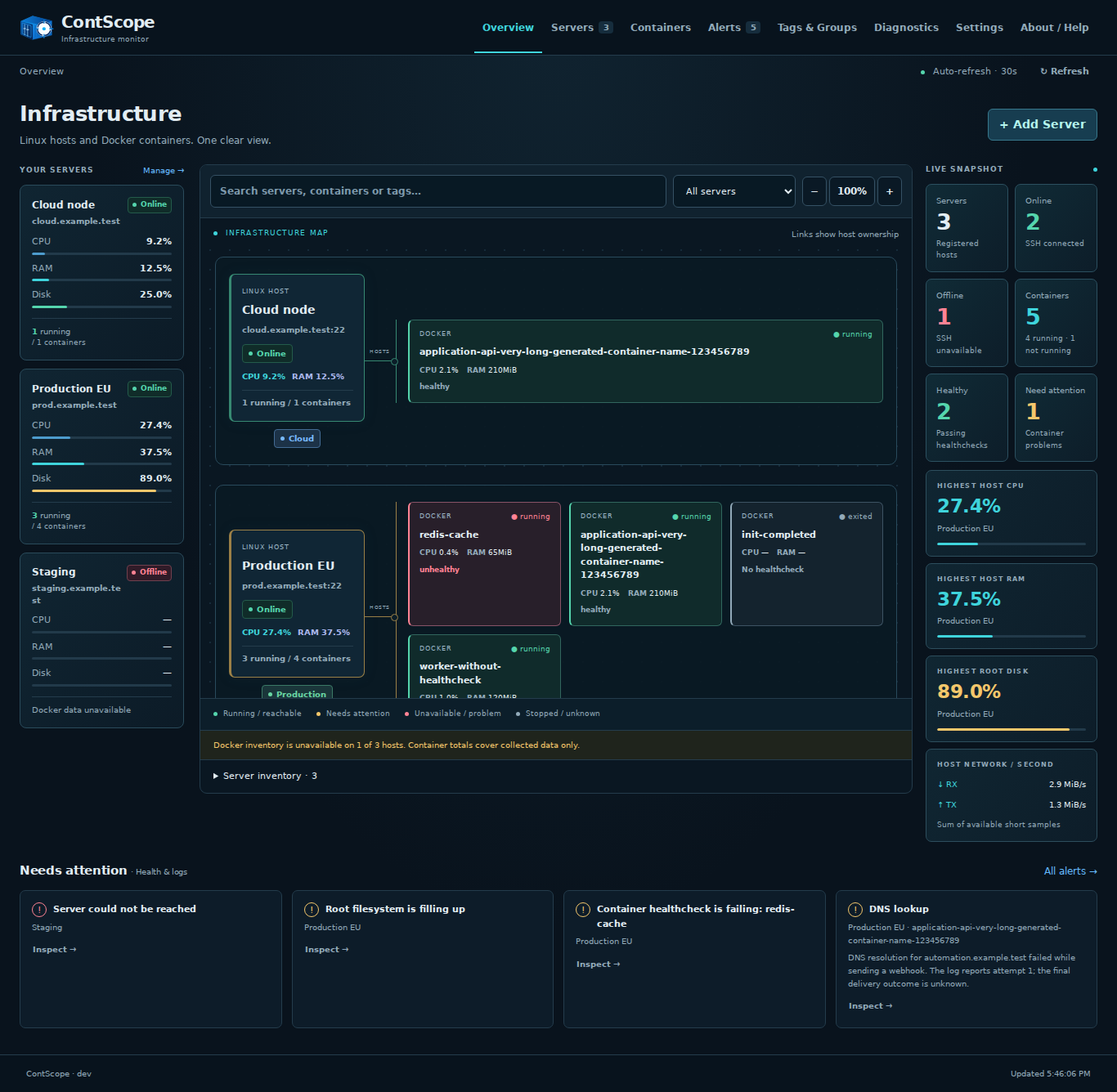
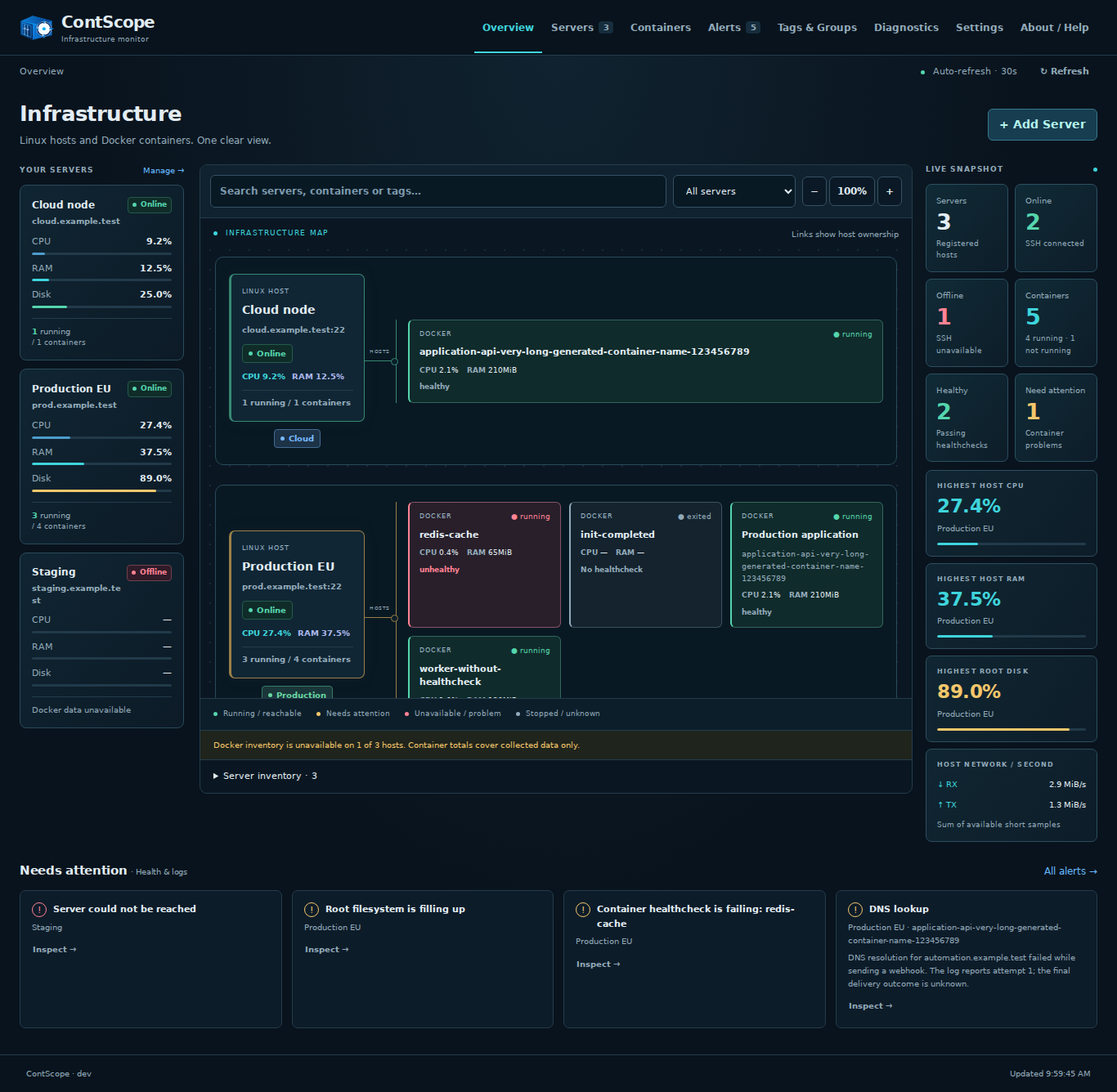
fix: show container descriptions and accept eight-character passwords
Display saved descriptions above the original Docker name in map cards and include descriptions in search. Align the browser form and local/environment password minimum at eight characters.

Validate password rotation through the real browser form, rejection of the old password, and authentication with the new eight-character password after restarting the process. Retain responsive map and CRUD checks.

diff --git a/web/app.js b/web/app.js
@@ -33,6 +33,7 @@ function containerProblem(c){return containerHealth(c)==='unhealthy'||['restarti
 function containerState(c){return c.state||(/restarting/i.test(c.status)?'restarting':/paused/i.test(c.status)?'paused':/^dead/i.test(c.status)?'dead':/^up/i.test(c.status)?'running':/^exited/i.test(c.status)?'exited':/^created/i.test(c.status)?'created':'unknown')}
 function allContainers(){return state.servers.flatMap(server=>{const snap=state.snapshots.get(server.id);return dockerKnown(snap)?(snap.containers||[]).map(c=>({...c,server})):[]})}
 function labelFor(c){return state.labels.find(l=>l.serverId===c.server.id&&l.containerName===c.name)||{}}
+function containerTitle(c){const label=labelFor(c);return label.description||label.alias||c.name}
 function serverCard(server){const snap=state.snapshots.get(server.id);const usable=snap?.online;return `<article class="server-card"><div class="card-head"><div class="server-name-row"><span class="server-icon">▤</span><div class="server-identity"><h3>${esc(server.name)}</h3><p>${esc(server.host)}:${server.port}</p></div></div>${statusBadge(server)}</div>${tagBadges(server)}${resource('CPU',usable?snap.cpuPercent:null,'')}${resource('Memory',usable?percent(snap.memoryUsed,snap.memoryTotal):null,'cyan')}${resource('Root disk',usable?percent(snap.diskUsed,snap.diskTotal):null,'green')}${snap&&!snap.online?`<p class="form-note bad">${esc(snap.error||'SSH connection failed')}</p>`:''}<div class="card-footer"><span>◇ ${dockerKnown(snap)?containerCounts(snap.containers||[]).running+' running / '+(snap.containers||[]).length:'—'} containers</span>${button('open-server','View details →',server.id,'quiet')}</div></article>`}
 function findings(){return state.servers.flatMap(server=>(state.snapshots.get(server.id)?.findings||[]).filter(f=>f.severity!=='info').map(f=>({...f,id:server.id+':'+f.id,server,source:'health',at:state.snapshots.get(server.id).at})))}
 function alertRows(){return [...findings(),...state.alerts.map(a=>{const server=state.servers.find(s=>s.id===a.serverId)||{id:a.serverId,name:a.serverName},c=allContainers().find(c=>c.server.id===a.serverId&&c.id===a.containerId),dockerName=c?.name||a.containerName,label=state.labels.find(l=>l.serverId===a.serverId&&l.containerName===dockerName);return {id:a.id,title:a.guidance?.category||'Application log',evidence:a.message,explanation:a.guidance?.explanation,nextStep:a.guidance?.nextStep,server,containerId:a.containerId,containerName:label?.alias?label.alias+' ('+dockerName+')':dockerName,severity:a.guidance?.severity||'info',at:a.at,source:'logs',view:'logs'}})].sort((a,b)=>new Date(b.at)-new Date(a.at))}
@@ -40,13 +41,13 @@ function attentionRow(f){return `<article class="attention-row"><span class="att
 function dockerKnown(snap){return !!snap?.online&&snap.dockerStatus==='ok'}
 function hostContainers(server){return allContainers().filter(c=>c.server.id===server.id)}
 function containerCounts(items){return {total:items.length,running:items.filter(c=>containerState(c)==='running').length,healthy:items.filter(c=>containerState(c)==='running'&&containerHealth(c)==='healthy').length,problems:items.filter(containerProblem).length}}
-function mapServers(){const query=state.map.search.trim().toLowerCase();return [...state.servers].sort((a,b)=>a.name.localeCompare(b.name)).filter(s=>(state.map.server==='all'||state.map.server===s.id)&&(!query||[s.name,s.host,...tagsFor(s).map(t=>t.name),...hostContainers(s).flatMap(c=>[c.name,labelFor(c).alias||''])].join(' ').toLowerCase().includes(query)))}
-function mapContainers(server){const query=state.map.search.trim().toLowerCase(),items=hostContainers(server),hostMatch=[server.name,server.host,...tagsFor(server).map(t=>t.name)].join(' ').toLowerCase().includes(query);return items.filter(c=>!query||hostMatch||(c.name+' '+(labelFor(c).alias||'')).toLowerCase().includes(query)).sort((a,b)=>Number(containerProblem(b))-Number(containerProblem(a))||(labelFor(a).alias||a.name).localeCompare(labelFor(b).alias||b.name))}
+function mapServers(){const query=state.map.search.trim().toLowerCase();return [...state.servers].sort((a,b)=>a.name.localeCompare(b.name)).filter(s=>(state.map.server==='all'||state.map.server===s.id)&&(!query||[s.name,s.host,...tagsFor(s).map(t=>t.name),...hostContainers(s).flatMap(c=>[c.name,labelFor(c).alias||'',labelFor(c).description||''])].join(' ').toLowerCase().includes(query)))}
+function mapContainers(server){const query=state.map.search.trim().toLowerCase(),items=hostContainers(server),hostMatch=[server.name,server.host,...tagsFor(server).map(t=>t.name)].join(' ').toLowerCase().includes(query);return items.filter(c=>!query||hostMatch||(c.name+' '+(labelFor(c).alias||'')+' '+(labelFor(c).description||'')).toLowerCase().includes(query)).sort((a,b)=>Number(containerProblem(b))-Number(containerProblem(a))||containerTitle(a).localeCompare(containerTitle(b)))}
 function compactServer(server){const snap=state.snapshots.get(server.id),items=hostContainers(server),counts=containerCounts(items);return `<article class="host-card"><div class="card-head"><button class="table-name" data-action="open-server" data-id="${esc(server.id)}"><b>${esc(server.name)}</b><small>${esc(server.host)}</small></button>${statusBadge(server)}</div>${resource('CPU',snap?.online?snap.cpuPercent:null,'')}${resource('RAM',snap?.online?percent(snap.memoryUsed,snap.memoryTotal):null,'cyan')}${resource('Disk',snap?.online?percent(snap.diskUsed,snap.diskTotal):null,'green')}<div class="host-count">${dockerKnown(snap)?`<b>${counts.running}</b> running <span>/ ${counts.total} containers</span>`:'Docker data unavailable'}</div></article>`}
 function topologyGroup(server){
  const snap=state.snapshots.get(server.id),items=mapContainers(server),counts=containerCounts(hostContainers(server)),tone=statusFor(server)==='offline'?'critical':counts.problems?'warning':statusFor(server)==='pending'?'pending':'good';
  const limit=24,shown=items.slice(0,limit);
- return `<article class="topology-group ${tone}" data-host="${esc(server.id)}"><div class="topology-host"><button class="host-node" data-action="open-server" data-id="${esc(server.id)}"><span class="node-type">LINUX HOST</span><strong>${esc(server.name)}</strong><small>${esc(server.host)}:${server.port}</small><span class="node-status">${statusBadge(server)}</span><span class="node-resources">CPU ${pct(snap?.online?snap.cpuPercent:null)} <span>RAM ${pct(snap?.online?percent(snap.memoryUsed,snap.memoryTotal):null)}</span></span><span class="node-count">${dockerKnown(snap)?counts.running+' running / '+counts.total+' containers':'Docker data unavailable'}</span></button>${tagBadges(server)}</div><div class="topology-branch" aria-hidden="true"><span>HOSTS</span></div><div class="topology-containers">${shown.map(c=>{const label=labelFor(c),problem=containerProblem(c),status=containerState(c),health=containerHealth(c),kind=problem?'critical':status==='running'?'good':'info';return `<button class="container-node ${kind}" data-action="container" data-id="${esc(c.id)}" data-server="${esc(server.id)}" aria-label="Inspect ${esc(label.alias||c.name)} on ${esc(server.name)}"><span class="node-type">DOCKER <span class="${kind}">● ${esc(status)}</span></span><strong title="${esc(c.name)}">${esc(label.alias||c.name)}</strong><span class="container-resources"><span>CPU <b>${esc(c.cpu||'—')}</b></span><span>RAM <b>${esc((c.memory||'—').split('/')[0].trim())}</b></span></span><small class="${health==='unhealthy'?'critical':''}">${health==='not configured'?'No healthcheck':esc(health)}${c.restarts?' · '+Number(c.restarts)+' restarts':''}</small></button>`}).join('')||`<div class="map-unavailable"><span class="node-type">${snap&&!snap.online?'SSH UNAVAILABLE':!snap?'COLLECTING':!dockerKnown(snap)?'DOCKER UNAVAILABLE':'NO CONTAINERS'}</span><p>${esc(snap&&!snap.online?snap.error||'SSH collection failed.':!snap?'Waiting for the first snapshot.':!dockerKnown(snap)?'Docker is missing or inaccessible to the SSH account.':'No matching containers in this snapshot.')}</p></div>`}${items.length>limit?`<button class="map-more" data-action="host-containers" data-id="${esc(server.id)}">+ ${items.length-limit} more · View all containers →</button>`:''}</div></article>`;
+ return `<article class="topology-group ${tone}" data-host="${esc(server.id)}"><div class="topology-host"><button class="host-node" data-action="open-server" data-id="${esc(server.id)}"><span class="node-type">LINUX HOST</span><strong>${esc(server.name)}</strong><small>${esc(server.host)}:${server.port}</small><span class="node-status">${statusBadge(server)}</span><span class="node-resources">CPU ${pct(snap?.online?snap.cpuPercent:null)} <span>RAM ${pct(snap?.online?percent(snap.memoryUsed,snap.memoryTotal):null)}</span></span><span class="node-count">${dockerKnown(snap)?counts.running+' running / '+counts.total+' containers':'Docker data unavailable'}</span></button>${tagBadges(server)}</div><div class="topology-branch" aria-hidden="true"><span>HOSTS</span></div><div class="topology-containers">${shown.map(c=>{const label=labelFor(c),problem=containerProblem(c),status=containerState(c),health=containerHealth(c),kind=problem?'critical':status==='running'?'good':'info';return `<button class="container-node ${kind}" data-action="container" data-id="${esc(c.id)}" data-server="${esc(server.id)}" aria-label="Inspect ${esc(containerTitle(c))} on ${esc(server.name)}"><span class="node-type">DOCKER <span class="${kind}">● ${esc(status)}</span></span><strong class="container-description" title="${esc(c.name)}">${esc(containerTitle(c))}</strong>${label.description||label.alias?`<small class="container-docker-name">${esc(c.name)}</small>`:''}<span class="container-resources"><span>CPU <b>${esc(c.cpu||'—')}</b></span><span>RAM <b>${esc((c.memory||'—').split('/')[0].trim())}</b></span></span><small class="${health==='unhealthy'?'critical':''}">${health==='not configured'?'No healthcheck':esc(health)}${c.restarts?' · '+Number(c.restarts)+' restarts':''}</small></button>`}).join('')||`<div class="map-unavailable"><span class="node-type">${snap&&!snap.online?'SSH UNAVAILABLE':!snap?'COLLECTING':!dockerKnown(snap)?'DOCKER UNAVAILABLE':'NO CONTAINERS'}</span><p>${esc(snap&&!snap.online?snap.error||'SSH collection failed.':!snap?'Waiting for the first snapshot.':!dockerKnown(snap)?'Docker is missing or inaccessible to the SSH account.':'No matching containers in this snapshot.')}</p></div>`}${items.length>limit?`<button class="map-more" data-action="host-containers" data-id="${esc(server.id)}">+ ${items.length-limit} more · View all containers →</button>`:''}</div></article>`;
 }
 function topology(){const servers=mapServers();return servers.length?`<div class="topology-canvas" style="--map-scale:${state.map.zoom}">${servers.map(topologyGroup).join('')}</div>`:empty(state.servers.length?'No matching hosts or containers':'Connect your first server',state.servers.length?'Adjust the search or select another server.':'Monitor your Linux hosts and Docker containers through SSH.',state.servers.length?button('map-clear','Clear filters'):button('add-server','+ Connect server','','primary'))}
 function mapLegend(){return `<div class="map-legend"><span><i class="dot good"></i> Running / reachable</span><span><i class="dot warning"></i> Needs attention</span><span><i class="dot critical"></i> Unavailable / problem</span><span><i class="dot info"></i> Stopped / unknown</span></div>`}
@@ -82,7 +83,7 @@ function containersTable(items){if(!items.length)return empty('No containers to 
 function containerMetric(c,key){if(key==='cpu'){const value=parseFloat(c.cpu);return Number.isFinite(value)?value:null}if(key==='memory')return byteValue(c.memory);return networkValue(c.netIO,key)}
 function sortContainers(items){const f=state.filters.containers;return [...items].sort((a,b)=>{const tie=(labelFor(a).alias||a.name).localeCompare(labelFor(b).alias||b.name)||a.server.name.localeCompare(b.server.name)||a.id.localeCompare(b.id);return f.sort==='name'?(f.direction==='asc'?tie:-tie):numericCompare(containerMetric(a,f.sort),containerMetric(b,f.sort),f.direction)||tie})}
 function containerMetricCell(c,key){const cpu=key==='cpu',parts=String(c.memory||'').split('/'),value=cpu?containerMetric(c,'cpu'):percent(byteValue(parts[0]),byteValue(parts[1]));return `<div class="table-metric ${cpu?'cpu':'memory'}"><b>${esc(cpu?(c.cpu||'—'):(c.memory||'—'))}</b>${Number.isFinite(value)?bar(Math.min(100,value),cpu?'':'memory'):''}</div>`}
-function containerResults(){const f=state.filters.containers;const items=allContainers().filter(c=>state.route==='server'?c.server.id===state.serverId:(c.name+' '+(labelFor(c).alias||'')).toLowerCase().includes(f.search.toLowerCase())&&(f.server==='all'||c.server.id===f.server)&&(f.status==='all'||f.status==='problem'&&containerProblem(c)||containerState(c)===f.status));return containersTable(sortContainers(items))}
+function containerResults(){const f=state.filters.containers;const items=allContainers().filter(c=>state.route==='server'?c.server.id===state.serverId:(c.name+' '+(labelFor(c).alias||'')+' '+(labelFor(c).description||'')).toLowerCase().includes(f.search.toLowerCase())&&(f.server==='all'||c.server.id===f.server)&&(f.status==='all'||f.status==='problem'&&containerProblem(c)||containerState(c)===f.status));return containersTable(sortContainers(items))}
 function memoryBytes(text){return byteValue(text)??0}
 function renderResults(scope){const renderers={servers:serverResults,containers:containerResults,alerts:alertsResults};if($('results'))$('results').innerHTML=renderers[scope]();const select=document.querySelector(`[data-filter="${scope}.sort"]`);if(select)select.value=state.filters[scope].sort;const button=document.querySelector(`[data-action="sort-direction"][data-id="${scope}"]`);if(button){button.textContent=state.filters[scope].direction==='desc'?'↓':'↑';button.title=state.filters[scope].direction==='desc'?'Highest first':'Lowest first'}}
 function containersPage(){const f=state.filters.containers;return heading('Containers','Every Docker container, across your connected hosts.')+`<div class="toolbar"><input aria-label="Search containers" data-filter="containers.search" placeholder="Search Docker or friendly name…" value="${esc(f.search)}"><select aria-label="Filter containers by server" data-filter="containers.server">${option('all','All servers',f.server)}${state.servers.map(s=>option(s.id,s.name,f.server)).join('')}</select><select aria-label="Filter containers by status" data-filter="containers.status">${['all','running','problem','exited','restarting','paused','dead'].map(v=>option(v,v==='all'?'All statuses':v==='problem'?'Needs attention':v[0].toUpperCase()+v.slice(1),f.status)).join('')}</select>${sortControl('containers')}</div><div id="results">${containerResults()}</div>`}
@@ -95,7 +96,7 @@ function info(label,value){return `<div class="info-item"><small>${esc(label)}</
 function diagnosticPanel(id){return `<section class="panel"><h2>Read-only diagnostics</h2><p class="form-note">Collected only when requested. Commands and response sizes are limited. No remote data is changed.</p><div class="diag-buttons">${[['processes','Processes','Top CPU & memory users'],['storage','Storage','Filesystems & Docker usage'],['network','Network','Interfaces & connections'],['events','Docker events','Recent activity, last 30 min']].map(([view,title,sub])=>`<button data-action="diagnostic" data-id="${view}" data-server="${esc(id)}"><b>${title}</b><small>${sub}</small></button>`).join('')}</div><div id="diagOutput" class="diag-result"><p class="muted">Choose a diagnostic to collect its results.</p></div></section>`}
 function diagnosticsPage(){return heading('Diagnostics','Investigate a server when you need more detail.')+`<div class="toolbar"><select id="diagnosticServer" aria-label="Diagnostic server">${option('','Choose a server','')}${state.servers.map(s=>option(s.id,s.name,'')).join('')}</select></div>${state.servers.length?diagnosticPanel(''):empty('Connect a server first','Diagnostics use the same trusted SSH connection as monitoring.')}`}
 function logPanel(id){const containers=allContainers().filter(c=>c.server.id===id);return `<section class="panel"><h2>Container logs</h2><p class="form-note">Loads at most 200 recent lines on request. Log output may contain private information.</p><div class="log-tools"><select id="logContainer" aria-label="Choose container for logs">${containers.map(c=>option(c.id,labelFor(c).alias||c.name,'')).join('')}</select>${button('load-server-logs','Load logs',id,'primary')}</div><div id="serverLogs"></div></section>`}
-function settingsPage(){return heading('Settings','Manage account access and optional notifications.')+`<div class="settings-layout"><section class="panel"><div class="setting-heading"><span class="account-icon">⚿</span><h2>Account</h2></div><p>Admin access stays local to this installation.</p><form id="passwordForm"><div class="form-grid"><label class="full">Current password<input type="password" name="currentPassword" autocomplete="current-password" required maxlength="256"></label><label>New password<input type="password" name="newPassword" autocomplete="new-password" minlength="14" maxlength="256" required></label><label>Confirm new password<input type="password" name="confirmPassword" autocomplete="new-password" minlength="14" maxlength="256" required></label></div><p class="form-note">At least 14 characters. Environment-managed credentials must be changed in the container configuration.</p><div class="form-error" role="alert" hidden></div><div class="form-actions"><button type="submit" class="primary">Update password</button></div></form></section><section class="panel"><div class="setting-heading"><span class="account-icon">↗</span><h2>Notifications</h2></div><p>Send warning and critical log notifications to Telegram. Informational matches stay in Alerts. Similar notifications share a cooldown.</p><form id="telegramForm"><label class="inline-check"><input type="checkbox" name="enabled">Enable Telegram notifications</label><div class="form-grid"><label class="full">Bot token<input type="password" name="token" autocomplete="new-password" placeholder="Paste token, or leave blank to retain it" maxlength="120"></label><label>Chat ID<input name="chatId" placeholder="123456789 or -100…" maxlength="25"></label><label>Cooldown (minutes)<input name="cooldownMinutes" type="number" min="5" max="1440" value="30" required></label></div><p id="tokenStatus" class="form-note">Loading saved settings…</p><p class="form-note">Create a bot with @BotFather, then start a conversation with it or add it to your group.</p><div class="form-error" role="alert" hidden></div><div class="form-actions">${button('test-telegram','Send test message')}<button type="submit" class="primary">Save notifications</button></div></form></section><section class="panel"><h2>General</h2><div class="info-grid">${info('Snapshot refresh','Every 30 seconds while visible')}${info('Log checks','Every 90 seconds')}${info('Remote actions','Read-only')}${info('Storage','Persistent local Docker volume')}</div><p class="form-note">Snapshots are shared for 25 seconds to avoid redundant SSH requests. Diagnostics and logs are requested on demand.</p></section></div>`}
+function settingsPage(){return heading('Settings','Manage account access and optional notifications.')+`<div class="settings-layout"><section class="panel"><div class="setting-heading"><span class="account-icon">⚿</span><h2>Account</h2></div><p>Admin access stays local to this installation.</p><form id="passwordForm"><div class="form-grid"><label class="full">Current password<input type="password" name="currentPassword" autocomplete="current-password" required maxlength="256"></label><label>New password<input type="password" name="newPassword" autocomplete="new-password" minlength="8" maxlength="256" required></label><label>Confirm new password<input type="password" name="confirmPassword" autocomplete="new-password" minlength="8" maxlength="256" required></label></div><p class="form-note">At least 8 characters. Environment-managed credentials must be changed in the container configuration.</p><div class="form-error" role="alert" hidden></div><div class="form-actions"><button type="submit" class="primary">Update password</button></div></form></section><section class="panel"><div class="setting-heading"><span class="account-icon">↗</span><h2>Notifications</h2></div><p>Send warning and critical log notifications to Telegram. Informational matches stay in Alerts. Similar notifications share a cooldown.</p><form id="telegramForm"><label class="inline-check"><input type="checkbox" name="enabled">Enable Telegram notifications</label><div class="form-grid"><label class="full">Bot token<input type="password" name="token" autocomplete="new-password" placeholder="Paste token, or leave blank to retain it" maxlength="120"></label><label>Chat ID<input name="chatId" placeholder="123456789 or -100…" maxlength="25"></label><label>Cooldown (minutes)<input name="cooldownMinutes" type="number" min="5" max="1440" value="30" required></label></div><p id="tokenStatus" class="form-note">Loading saved settings…</p><p class="form-note">Create a bot with @BotFather, then start a conversation with it or add it to your group.</p><div class="form-error" role="alert" hidden></div><div class="form-actions">${button('test-telegram','Send test message')}<button type="submit" class="primary">Save notifications</button></div></form></section><section class="panel"><h2>General</h2><div class="info-grid">${info('Snapshot refresh','Every 30 seconds while visible')}${info('Log checks','Every 90 seconds')}${info('Remote actions','Read-only')}${info('Storage','Persistent local Docker volume')}</div><p class="form-note">Snapshots are shared for 25 seconds to avoid redundant SSH requests. Diagnostics and logs are requested on demand.</p></section></div>`}
 function aboutPage(){const a=state.about;return heading('About ContScope','Open-source visibility for your Linux hosts and Docker containers.')+`<div class="two-column"><section class="panel"><img class="about-logo" src="/assets/contscope-mark.svg" alt="ContScope"><h2>Small footprint. Clear picture.</h2><p class="muted">One container, encrypted local credentials and no monitoring agents.</p><div class="info-grid">${info('Version',a.version||'Loading…')}${info('License','Apache 2.0')}${info('Commit',a.commit||'—')}${info('Build date',a.buildDate||'—')}</div><div class="about-links"><a href="https://github.com/ttavares369/ContScope" target="_blank" rel="noopener noreferrer">GitHub repository ↗</a><a href="https://github.com/ttavares369/ContScope/issues" target="_blank" rel="noopener noreferrer">Report an issue ↗</a></div><div class="help-item"><h3>Support this project</h3><p>Star the repository, report bugs or contribute improvements. Donations remain unavailable until a verified funding account is configured.</p></div></section><section class="panel"><h2>Get expert help · Jupiter TI</h2><p class="muted">Need help with Linux, Docker or your infrastructure? Prepare a report, review it and share it yourself.</p><div class="actions">${button('support','Prepare support report','','primary')}<a href="mailto:tiago@jupiterti.com">Contact Jupiter TI ↗</a></div><div class="help-item"><h3>SSH identity & first connection</h3><p>Connect & Add Server discovers the host key and trusts it on first use (TOFU). Independently verify your first connection through a trusted network or console. The key is pinned; subsequent changes are rejected, including when you edit credentials.</p></div><div class="help-item"><h3>Recover admin access</h3><p>The initial password is printed once in container logs. Reset it locally with:</p><pre class="code-output">docker compose exec contscope /usr/local/bin/contscope reset-admin</pre><p>Preserve and back up the complete data volume, including the encryption key. Use HTTPS or an SSH tunnel for remote access.</p></div></section></div>`}
 function render(){const viewport=$('mapViewport'),scroll=viewport?[viewport.scrollLeft,viewport.scrollTop]:null,input=document.activeElement?.id==='mapSearch'?{start:document.activeElement.selectionStart,end:document.activeElement.selectionEnd}:null;const pages={overview,servers:serversPage,containers:containersPage,alerts:alertsPage,tags:tagsPage,server:serverPage,diagnostics:diagnosticsPage,settings:settingsPage,about:aboutPage};$('content').innerHTML=pages[state.route]();$('breadcrumb').textContent=names[state.route];document.querySelectorAll('#navigation a').forEach(a=>{const active=a.dataset.page===(state.route==='server'?'servers':state.route);a.classList.toggle('active',active);if(active)a.setAttribute('aria-current','page');else a.removeAttribute('aria-current')});$('serverCount').textContent=state.servers.length;$('alertCount').textContent=alertRows().length;if(state.route==='settings')loadTelegram();if(scroll&&$('mapViewport')){$('mapViewport').scrollLeft=scroll[0];$('mapViewport').scrollTop=scroll[1]}if(input&&$('mapSearch')){$('mapSearch').focus({preventScroll:true});$('mapSearch').setSelectionRange(input.start,input.end)}}
 function route(){const [page,id,tab]=location.hash.slice(1).split('/');state.route=Object.hasOwn(names,page)?page:'overview';state.serverId=id||'';state.tab=['summary','containers','logs','diagnostics','settings'].includes(tab)?tab:'summary';document.body.classList.remove('nav-open');syncNavigation();render();}

diff --git a/web/app.css b/web/app.css
@@ -23,3 +23,6 @@
 /* Narrow phones need the title and primary action on separate rows. */
 .page-head>div:first-child{min-width:0}.page-head h1{overflow-wrap:anywhere}
 @media(max-width:360px){.page-head{flex-direction:column;align-items:stretch;gap:12px}.page-head>.actions{align-self:flex-start}.page-head p{max-width:none}}
+
+/* Keep the saved description above the original Docker identity in map cards. */
+.container-node .container-description{white-space:pre-line}.container-node .container-docker-name{font:10px/1.5 ui-monospace,SFMono-Regular,Consolas,monospace;color:var(--muted);overflow-wrap:anywhere}

diff --git a/admin_password_test.go b/admin_password_test.go
@@ -21,15 +21,20 @@ func TestAdminChangePassword(t *testing.T) {
 	if err = changeAdminPassword("incorrect", "A-fresh-passphrase-for-admin!"); err != errWrongAdminPassword {
 		t.Fatalf("wrong current password accepted: %v", err)
 	}
-	if err = changeAdminPassword(current, "short"); err != errInvalidAdminPassword {
-		t.Fatalf("weak password accepted: %v", err)
+	for _, short := range []string{"1234567", "ááááááá"} {
+		if err = changeAdminPassword(current, short); err != errInvalidAdminPassword {
+			t.Fatalf("password below eight characters accepted: %v", err)
+		}
 	}
-	next := "A-fresh-passphrase-for-admin!"
+	next := "Eight123"
 	if err = changeAdminPassword(current, next); err != nil {
 		t.Fatal(err)
 	}
 	if verifyAdmin("admin", current) || !verifyAdmin("admin", next) {
 		t.Fatal("credential rotation failed")
+	}
+	if generated, first, err := initAdminAccount(); err != nil || first || generated != "" || !verifyAdmin("admin", next) || verifyAdmin("admin", current) {
+		t.Fatalf("changed eight-character password did not survive reinitialization: %v", err)
 	}
 	if err = changeAdminPassword(next, next); err != errSameAdminPassword {
 		t.Fatal("reusing the same password accepted")
@@ -45,7 +50,7 @@ func TestAdminChangePasswordAPI(t *testing.T) {
 	if err != nil {
 		t.Fatal(err)
 	}
-	payload := `{"currentPassword":"` + current + `","newPassword":"new-password-12345678","confirmPassword":"new-password-12345678"}`
+	payload := `{"currentPassword":"` + current + `","newPassword":"Eight123","confirmPassword":"Eight123"}`
 	req := httptest.NewRequest("POST", "http://localhost/api/admin/password", strings.NewReader(payload))
 	req.Header.Set("Origin", "http://localhost")
 	req.SetBasicAuth("admin", current)
@@ -62,7 +67,7 @@ func TestAdminChangePasswordAPI(t *testing.T) {
 		t.Fatal("old password still accepted")
 	}
 	req = httptest.NewRequest("GET", "http://localhost/api/about", nil)
-	req.SetBasicAuth("admin", "new-password-12345678")
+	req.SetBasicAuth("admin", "Eight123")
 	response = httptest.NewRecorder()
 	auth(func(w http.ResponseWriter, r *http.Request) { w.WriteHeader(204) })(response, req)
 	if response.Code != 204 {

diff --git a/admin_password.go b/admin_password.go
@@ -19,7 +19,7 @@ var adminChangeMu sync.Mutex
 var (
 	errWrongAdminPassword      = errors.New("current password is incorrect")
 	errAdminEnvironmentManaged = errors.New("admin credentials are managed by environment variables")
-	errInvalidAdminPassword    = errors.New("new password must be 14 to 256 characters")
+	errInvalidAdminPassword    = errors.New("new password must be 8 to 256 characters")
 	errSameAdminPassword       = errors.New("new password must be different from the current password")
 )
 
@@ -41,7 +41,7 @@ func changeAdminPassword(current, next string) error {
 	if !verifyAdmin("admin", current) {
 		return errWrongAdminPassword
 	}
-	if !utf8.ValidString(next) || len(next) < 14 || len(next) > 256 || strings.ContainsAny(next, "\r\n\x00") {
+	if !utf8.ValidString(next) || utf8.RuneCountInString(next) < minAdminPasswordLength || utf8.RuneCountInString(next) > 256 || strings.ContainsAny(next, "\r\n\x00") {
 		return errInvalidAdminPassword
 	}
 	if current == next {

diff --git a/admin_auth.go b/admin_auth.go
@@ -11,7 +11,10 @@ import (
 	"fmt"
 	"os"
 	"path/filepath"
+	"unicode/utf8"
 )
+
+const minAdminPasswordLength = 8
 
 type adminAccount struct {
 	Username     string `json:"username"`
@@ -84,8 +87,8 @@ func initAdminAccount() (string, bool, error) {
 	user := os.Getenv("CONTSCOPE_USER")
 	password := os.Getenv("CONTSCOPE_PASSWORD")
 	if user != "" || password != "" {
-		if user == "" || len(password) < 16 {
-			return "", false, errors.New("both CONTSCOPE_USER and a password of at least 16 characters are required when overriding login")
+		if user == "" || !utf8.ValidString(password) || utf8.RuneCountInString(password) < minAdminPasswordLength {
+			return "", false, fmt.Errorf("both CONTSCOPE_USER and a password of at least %d characters are required when overriding login", minAdminPasswordLength)
 		}
 		return "", false, nil
 	}

diff --git a/admin_auth_test.go b/admin_auth_test.go
@@ -40,3 +40,17 @@ func TestFirstRunAdminAndReset(t *testing.T) {
 		t.Fatal("password reset did not rotate access")
 	}
 }
+
+func TestEnvironmentAdminPasswordMinimum(t *testing.T) {
+	t.Setenv("CONTSCOPE_USER", "admin")
+	t.Setenv("CONTSCOPE_PASSWORD", "Eight123")
+	if _, first, err := initAdminAccount(); err != nil || first || !verifyAdmin("admin", "Eight123") {
+		t.Fatalf("eight-character environment password rejected: %v", err)
+	}
+	for _, short := range []string{"1234567", "ááááááá"} {
+		t.Setenv("CONTSCOPE_PASSWORD", short)
+		if _, _, err := initAdminAccount(); err == nil {
+			t.Fatal("environment password below eight characters accepted")
+		}
+	}
+}

diff --git a/README.md b/README.md
@@ -92,7 +92,7 @@ Create tags from **Tags & Groups**, choose from eight colors, and assign up to e
 
 ### Containers, logs and findings
 
-Friendly names and descriptions are local metadata linked to the server and original Docker container name. **Details** opens metadata editing and a bounded Docker inspect result. ContScope never renames the actual container.
+Friendly names and descriptions are local metadata linked to the server and original Docker container name. Map cards show the saved description first and the original Docker name directly below it. Without a description, the friendly name or Docker name is used. Search also matches saved descriptions. **Details** opens metadata editing and a bounded Docker inspect result. ContScope never renames the actual container.
 
 **Logs** retrieves up to 200 timestamped lines (128 KiB) on demand with a local text filter. Advanced commands are fixed scripts, never arbitrary user commands. Environment variables and full Docker inspect payloads are not exposed. Logs may still contain private information: limit dashboard access to trusted users.
 
@@ -116,7 +116,7 @@ The token is encrypted at rest and never returned by a GET API. A 5–1440 minut
 
 ### Account and recovery
 
-**Settings → Account** changes the local admin password (14–256 characters). The old password immediately stops authenticating new requests; browsers may cache Basic Auth credentials until the tab/browser is reopened. If credentials are overridden through `CONTSCOPE_USER`/`CONTSCOPE_PASSWORD`, change the deployment environment instead.
+**Settings → Account** changes the local admin password (8–256 characters). The old password immediately stops authenticating new requests; browsers may cache Basic Auth credentials until the tab/browser is reopened. If credentials are overridden through `CONTSCOPE_USER`/`CONTSCOPE_PASSWORD`, change the deployment environment instead.
 
 Reset the automatically managed account locally if needed:
 
